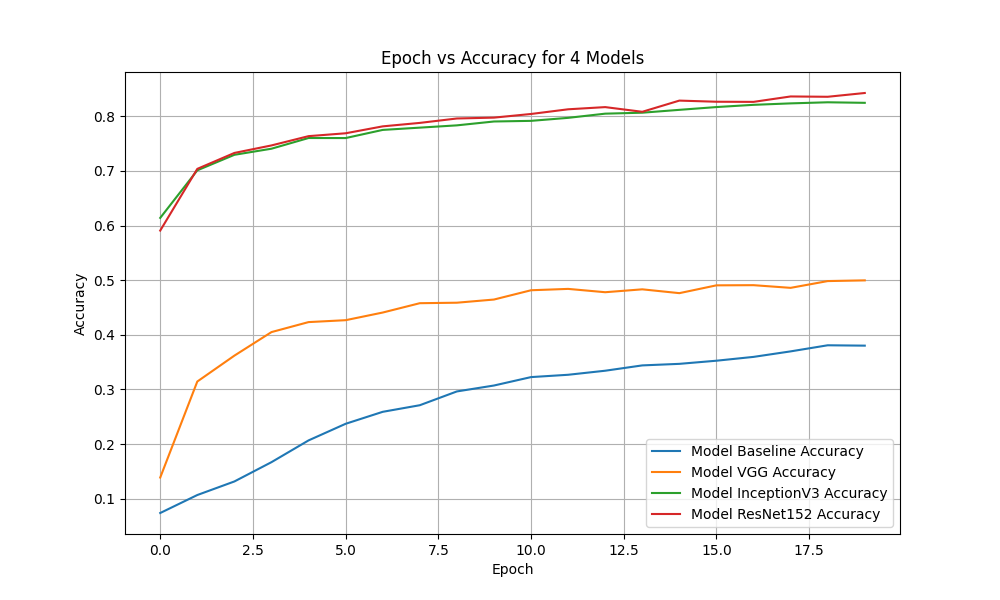
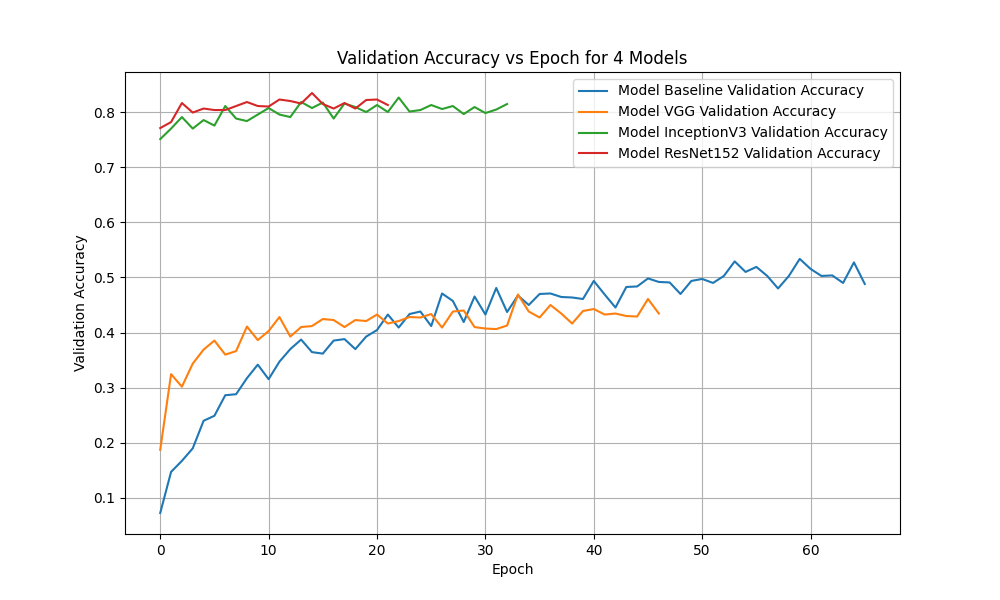
feat: update prediction model

diff --git a/src/pages/project_demo/FoodImageClassify.js b/src/pages/project_demo/FoodImageClassify.js
@@ -71,13 +71,13 @@ function FoodImageClassify() {
                 <Row style={{justifyContent: "center", padding: "10px"}}>
                     <Col lg={12} xl={7}>
                         <div className="project-heading fade-in">
-                            Food Classification with <strong className='primary-color'> 20 </strong> Class
+                            Food Classification with <strong className='primary-color'> 22 </strong> Class
                         </div>
                         <p className="paragraph fade-in">
                             This project is focused on developing <span className="primary-color">a deep learning-based
                             food classification system</span> using the Food-101 dataset. It involves preparing and
                             processing image data, building and training models to classify <span
-                            className="primary-color">20 food categories </span>, and fine-tuning the models
+                            className="primary-color">22 food categories </span>, and fine-tuning the models
                             for improved accuracy.
                         </p>
                         <p className="paragraph fade-in">
@@ -90,8 +90,8 @@ function FoodImageClassify() {
                         <p className="paragraph fade-in">
                             <span className="primary-color"> Try to classify a food photo below! </span>
                             Support food types include: Apple Pie, Baby Back Ribs, Bibimbap, Caesar Salad, Cheesecake,
-                            Chicken Curry, Chicken Wings, Club Sandwich, Donuts, Dumplings, French Fries, Hot Dog,
-                            Pizza, Ramen, Steak, Ice Cream, Waffles, Spring Rolls, Sushi, Fish and Chips.
+                            Chicken Curry, Chicken Wings, Club Sandwich, Donuts, Dumplings, French Fries, Hot Dog, Hamburger, 
+                            Frozen Yogust, Pizza, Ramen, Steak, Ice Cream, Waffles, Spring Rolls, Sushi, Fish and Chips.
                         </p>
                     </Col>
                     <Col lg={12} xl={5} style={{paddingBottom: 20, textAlign: "center"}}>
@@ -135,7 +135,7 @@ function FoodImageClassify() {
                 {modelResult != null ?
                     <Container>
                         <div className="project-heading fade-in">
-                            Prediction <strong className="primary-color">Result </strong>
+                            Prediction <strong className="primary-color">Result </strong> - {modelResult[3].first_predicted_class}
                         </div>
                         <table border="1" cellPadding="10" style={{borderCollapse: 'collapse', width: '100%'}}>
                             <thead>

diff --git a/src/pages/project/Projects.js b/src/pages/project/Projects.js
@@ -67,7 +67,7 @@ function Projects() {
                                     </Col>
                                     <Col xs={5} sm={5} md={10} lg={5} xl={10} xxl={6} style={{ display: "flex", justifyContent: "center", paddingBottom: "10px" }}>
                                         <Button variant="primary" href={"https://github.com/Yuanxyyds/machine-learning"} target="_blank">
-                                            <BsGithub /> &nbsp; Repository
+                                            <BsGithub /> &nbsp; Github
                                         </Button>
                                     </Col>
                                 </Row>}
